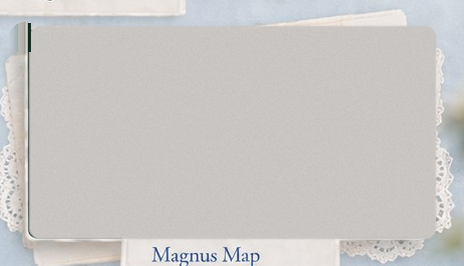
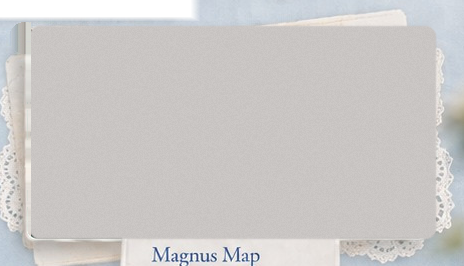
Work: the bottom row spreads out and drops, clear of Magnus United
Brain Age moves 24 left, Magnus Map 24 right, and all three 20 down, so
Magnus Map no longer crowds the Magnus United caption. Each project's
own stretch of backdrop moves with it (the sheets were cut from it), the
spots they left are filled with plain water, and the sheet edges that
used to meet or carried scraps of a neighbour fade out. The printed
card edge down Magnus Map's left side is painted over in paper.

Claude-Session: https://claude.ai/code/session_01HpDvEnbZ8t6qeMMCHWTFRy

Changed region(s): [[0.0, 0.0, 0.4224, 0.8722]]

diff --git a/index.html b/index.html
@@ -230,6 +230,19 @@ body.ab-hold .ab{opacity:0}
    The lace sheet is larger than the screenshot, so the card's exact
    shape never has to line up with anything underneath. */
 .wk-lace img{width:100%;height:100%;display:block}
+/* the Magnus Map project has moved down off the Magnus United sheet,
+   which still carries a scrap of the old Magnus Map card along its foot */
+/* the gap between Brain Age and CueLens widened, so the edges of their
+   sheets that used to meet now fade into the water between them */
+body:not(.mobile) #wk-lace-brainage{
+  -webkit-mask-image:linear-gradient(90deg,#000 calc(100% - 16px),transparent);
+  mask-image:linear-gradient(90deg,#000 calc(100% - 16px),transparent)}
+body:not(.mobile) #wk-lace-cuelens{
+  -webkit-mask-image:linear-gradient(90deg,transparent,#000 10px);
+  mask-image:linear-gradient(90deg,transparent,#000 10px)}
+body:not(.mobile) #wk-lace-magnus{
+  -webkit-mask-image:linear-gradient(180deg,#000 330px,transparent 342px);
+  mask-image:linear-gradient(180deg,#000 330px,transparent 342px)}
 .wk-card{transform:rotate(var(--ang,0deg))}
 .wk-card img{width:100%;height:100%;object-fit:cover;display:block;border-radius:10px}
 .wk-pin img{width:100%;height:100%;display:block;
@@ -1133,30 +1146,30 @@ const PROJECTS = [
    title:"Magnus United<br>Website Redesign", desc:"Coming Soon"},
 
   {id:"brainage", laceImg:"assets/work/lace-brainage.png", cardImg:"assets/work/card-brainage.jpg", href:"https://brainage-calculator.vercel.app/",
-   lace:{x: 186, y: 564, w: 434, h: 248},
-   card:{x: 205, y: 590, w: 374, h: 192, ang: 0},
-   pin: {x: 203.9, y: 590},
-   label:{x: 296, y: 786, w: 234, h:  88, padTop: 12},
+   lace:{x: 162, y: 584, w: 434, h: 248},
+   card:{x: 181, y: 610, w: 374, h: 192, ang: 0},
+   pin: {x: 179.9, y: 610},
+   label:{x: 272, y: 806, w: 234, h:  88, padTop: 12},
    title:"Brain Age Calculator", desc:"Estimates brain age from<br>structural MRI measurements."},
 
   {id:"cuelens", laceImg:"assets/work/lace-airesearch.png", cardImg:"assets/work/card-cuelens.jpg",
    href:"https://cuelensai.vercel.app/",
-   lace:{x: 606, y: 576, w: 340, h: 244},
+   lace:{x: 606, y: 596, w: 340, h: 244},
    /* this sheet came printed with its own blank card and a pin; the card is
       the paper the screenshot sits on and the pin on it is its pin */
    /* squared up to the paper's own cut, which leans 1.4deg, and centred on
       it rather than on the sheet. The pin is a piece of its own here so the
       screenshot passes under it instead of across it. */
-   card:{x: 638, y: 614, w: 306, h: 182, ang: -0.8},
+   card:{x: 638, y: 634, w: 306, h: 182, ang: -0.8},
    pin: null, overImg:"assets/work/pin-cuelens.png",
-   label:{x: 657, y: 789, w: 238, h: 82, padTop: 12},
+   label:{x: 657, y: 809, w: 238, h: 82, padTop: 12},
    title:"CueLens", desc:"AI-powered interface review<br>for conflicting visual cues."},
 
   {id:"magnusmap", laceImg:"assets/work/lace-magnusmap.png", cardImg:"assets/work/card-magnusmap.jpg", href:"https://aashvigeddam.github.io/magnus-map/",
-   lace:{x: 986, y: 546, w: 464, h: 266},
-   card:{x:1017, y: 574, w: 402, h: 208, ang: 0},
-   pin: {x:1015.9, y: 574},
-   label:{x:1104, y: 780, w: 220, h:  92, padTop: 12},
+   lace:{x:1010, y: 566, w: 464, h: 266},
+   card:{x:1041, y: 594, w: 402, h: 208, ang: 0},
+   pin: {x:1039.9, y: 594},
+   label:{x:1128, y: 800, w: 220, h:  92, padTop: 12},
    title:"Magnus Map", desc:"Model of Magnus United’s<br>internal operations tool."},
 ];
 /* On a phone the four projects come down the page one after another.
